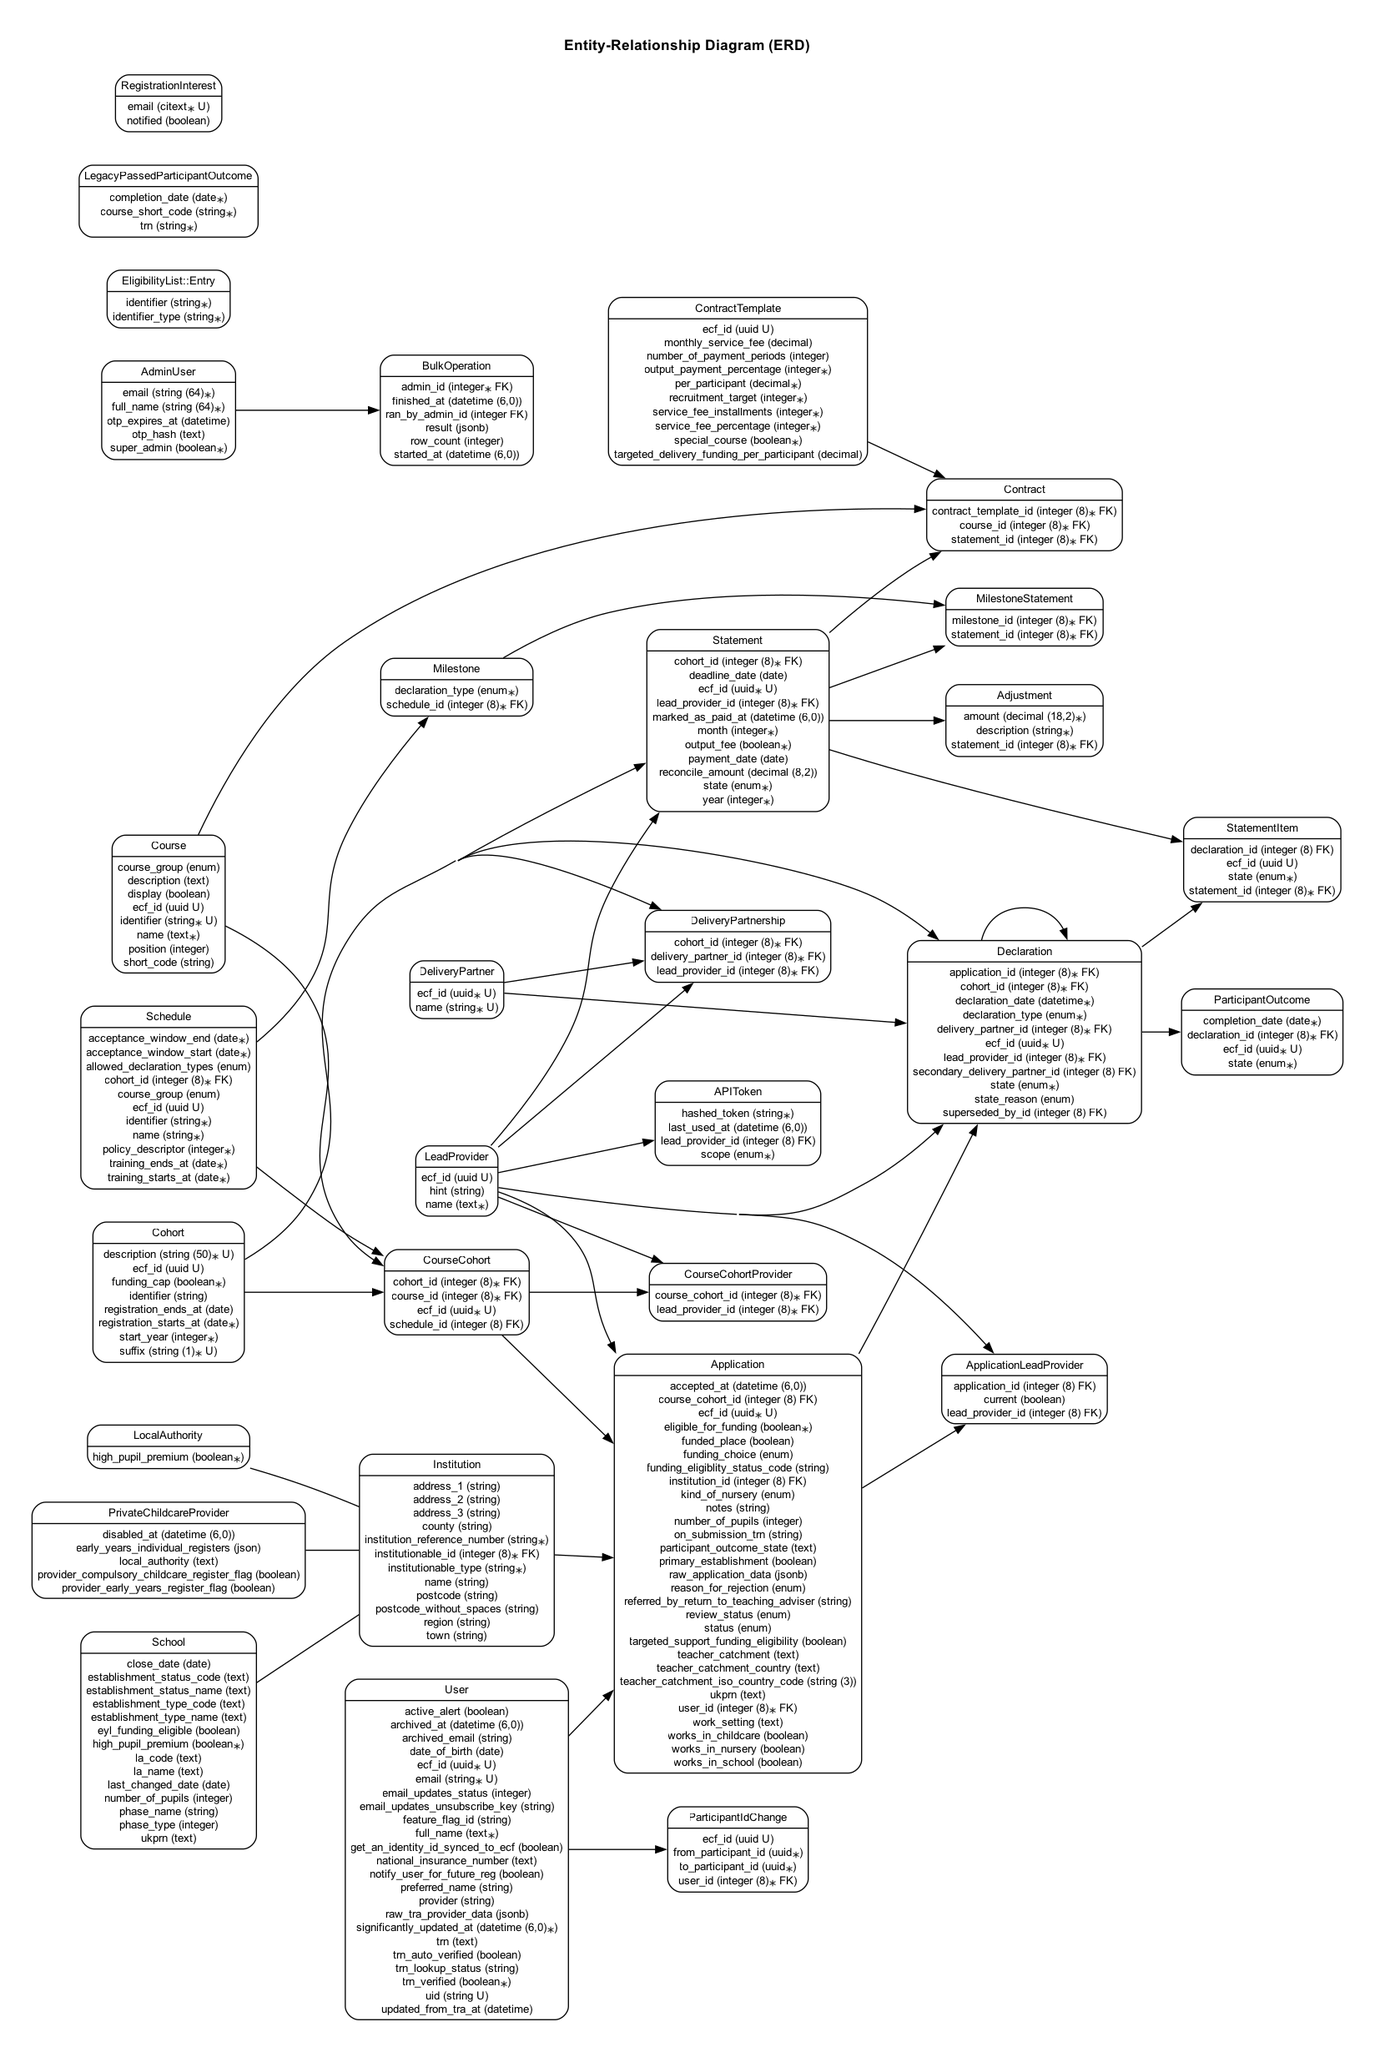
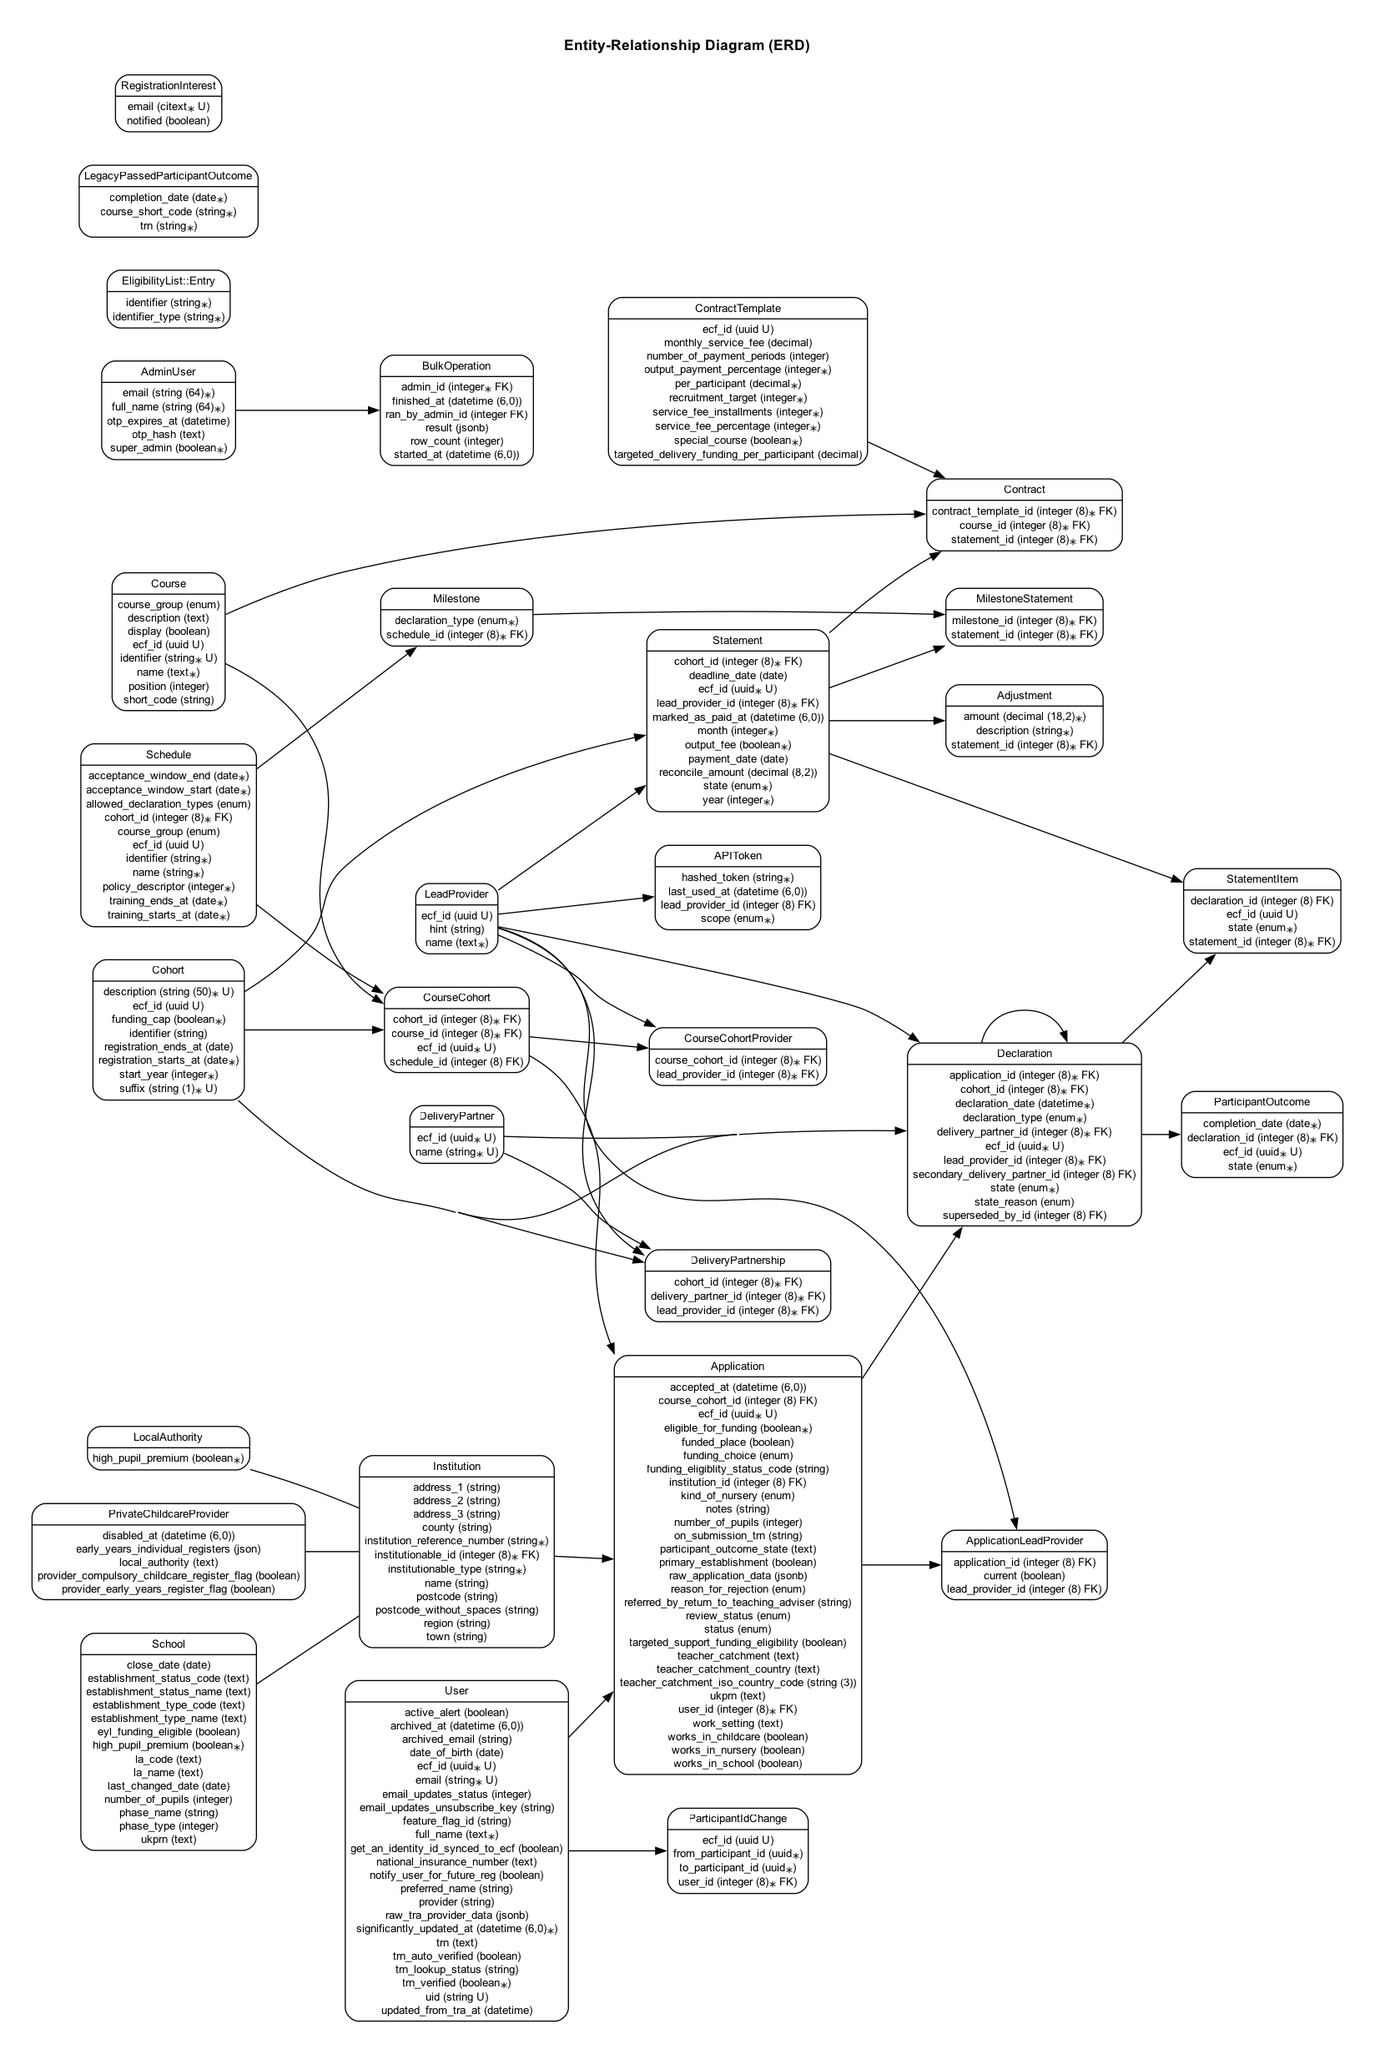
Remove application#belongs_to#lead_provider

diff --git a/spec/services/handle_submission_for_store_spec.rb b/spec/services/handle_submission_for_store_spec.rb
@@ -101,6 +101,7 @@ RSpec.describe HandleSubmissionForStore do
         expect(stable_as_json(user.reload)).to match(expected_user_attributes)
         expect(user.applications.reload.count).to eq 1
         last_application = user.applications.last
+        expect(last_application.lead_provider).to eq(lead_provider)
         expect(stable_as_json(last_application)).to match({
           "course_cohort_id" => course_cohort.id,
           "ecf_id" => last_application.ecf_id,
@@ -111,7 +112,6 @@ RSpec.describe HandleSubmissionForStore do
           "kind_of_nursery" => nil,
           "status" => "pending",
           "participant_outcome_state" => nil,
-          "lead_provider_id" => lead_provider.id,
           "notes" => nil,
           "institution_id" => school.institution.id,
           "targeted_support_funding_eligibility" => false,
@@ -249,7 +249,7 @@ RSpec.describe HandleSubmissionForStore do
 
       it "stores data from store" do
         subject.call
-
+        expect(user.applications.last.lead_provider).to eq(lead_provider)
         expect(stable_as_json(user.applications.last)).to match({
           "course_cohort_id" => course_cohort.id,
           "ecf_id" => user.applications.last.ecf_id,
@@ -260,7 +260,6 @@ RSpec.describe HandleSubmissionForStore do
           "kind_of_nursery" => "private_nursery",
           "status" => "pending",
           "participant_outcome_state" => nil,
-          "lead_provider_id" => lead_provider.id,
           "notes" => nil,
           "institution_id" => nil,
           "targeted_support_funding_eligibility" => false,
@@ -306,6 +305,7 @@ RSpec.describe HandleSubmissionForStore do
       it "stores data from store" do
         subject.call
 
+        expect(user.applications.last.lead_provider).to eq(lead_provider)
         expect(stable_as_json(user.applications.last)).to match({
           "course_cohort_id" => course_cohort.id,
           "ecf_id" => user.applications.last.ecf_id,
@@ -316,7 +316,6 @@ RSpec.describe HandleSubmissionForStore do
           "kind_of_nursery" => "private_nursery",
           "status" => "pending",
           "participant_outcome_state" => nil,
-          "lead_provider_id" => lead_provider.id,
           "notes" => nil,
           "institution_id" => nil,
           "targeted_support_funding_eligibility" => false,
@@ -372,6 +371,7 @@ RSpec.describe HandleSubmissionForStore do
       it "stores data from store" do
         subject.call
 
+        expect(user.applications.last.lead_provider).to eq(lead_provider)
         expect(stable_as_json(user.applications.last)).to match({
           "course_cohort_id" => course_cohort.id,
           "ecf_id" => user.applications.last.ecf_id,
@@ -382,7 +382,6 @@ RSpec.describe HandleSubmissionForStore do
           "kind_of_nursery" => "private_nursery",
           "status" => "pending",
           "participant_outcome_state" => nil,
-          "lead_provider_id" => lead_provider.id,
           "notes" => nil,
           "institution_id" => nil,
           "targeted_support_funding_eligibility" => false,

diff --git a/app/models/application.rb b/app/models/application.rb
@@ -9,7 +9,6 @@ class Application < ApplicationRecord
 
   belongs_to :user
   belongs_to :course_cohort
-  belongs_to :lead_provider
   belongs_to :institution, optional: true
 
   has_one :course, through: :course_cohort
@@ -30,10 +29,14 @@ class Application < ApplicationRecord
   has_many :application_events
   has_many :state_changes
   has_many :notifications
-  has_one :deferred_event, -> { where(event: DEFERRED).order(created_at: :desc) }, class_name: "StateChange"
-  has_one :withdrawn_event, -> { where(event: WITHDRAWN).order(created_at: :desc) }, class_name: "StateChange"
   has_many :declarations
   has_many :application_lead_providers
+
+  has_one :deferred_event, -> { where(event: DEFERRED).order(created_at: :desc) }, class_name: "StateChange"
+  has_one :withdrawn_event, -> { where(event: WITHDRAWN).order(created_at: :desc) }, class_name: "StateChange"
+  has_one :current_application_lead_provider,
+          -> { where(current: true) }, class_name: "ApplicationLeadProvider"
+  has_one :lead_provider, through: :current_application_lead_provider
 
   scope :expired_applications, -> { where(status: [REJECTED, WITHDRAWN]).where("created_at < ?", cut_off_date_for_expired_applications) }
   scope :active_applications, -> { where.not(id: expired_applications) }
@@ -60,7 +63,6 @@ class Application < ApplicationRecord
   validate :eligible_for_funded_place
 
   after_commit :touch_user_if_changed
-  after_save :create_application_lead_provider
 
   API_STATUSES = [].freeze
 
@@ -122,6 +124,19 @@ class Application < ApplicationRecord
   validates :funded_place, inclusion: { in: [true, false] }, if: :validate_funded_place?
   validate :funded_place_nil_for_cohort_with_ineligible_for_funding_cap
   validate :eligible_for_funded_place
+
+  def lead_provider_id
+    lead_provider.id
+  end
+
+  def lead_provider_id=(new_provider_id)
+    application_lead_providers.current.update_all(current: false, updated_at: Time.zone.now)
+    application_lead_providers.create!(lead_provider_id: new_provider_id, current: true)
+  end
+
+  def lead_provider=(new_provider)
+    self.lead_provider_id = new_provider&.id
+  end
 
   def can_change_provider?
     pending_status?
@@ -292,12 +307,5 @@ private
     return unless saved_change_to_status?
 
     user.touch(time: updated_at)
-  end
-
-  def create_application_lead_provider
-    return unless saved_change_to_lead_provider_id && lead_provider_id.present?
-
-    application_lead_providers.current.update_all(current: false, updated_at: Time.zone.now)
-    application_lead_providers.create!(lead_provider_id:, current: true)
   end
 end

diff --git a/spec/views/admin/applications/show.html.erb_spec.rb b/spec/views/admin/applications/show.html.erb_spec.rb
@@ -3,6 +3,14 @@ require "rails_helper"
 RSpec.describe "admin/applications/show.html.erb", type: :view do
   subject { Capybara.string(render) }
 
+  let(:application_trait) { :accepted }
+  let(:application_attributes) { {} }
+  let :application do
+    application = build_stubbed(:application, application_trait, **application_attributes)
+    allow(application).to receive(:lead_provider).and_return(build_stubbed(:lead_provider))
+    application
+  end
+
   let(:declarations) { [] }
 
   before do
@@ -11,10 +19,6 @@ RSpec.describe "admin/applications/show.html.erb", type: :view do
   end
 
   describe "a summary card for a full application" do
-    let(:application) do
-      build_stubbed :application, :accepted
-    end
-
     let :declarations do
       [
         build_stubbed(:declaration, application: application,
@@ -42,9 +46,7 @@ RSpec.describe "admin/applications/show.html.erb", type: :view do
   end
 
   describe "a summary card for a minimal application" do
-    let :application do
-      build_stubbed :application, institution: nil
-    end
+    let(:application_attributes) { { institution: nil } }
 
     it { is_expected.to have_css "h1", text: "Application details" }
     it { is_expected.to have_summary_item "Application ID", application.ecf_id }
@@ -56,10 +58,8 @@ RSpec.describe "admin/applications/show.html.erb", type: :view do
   end
 
   describe "Links for actions" do
-    let(:application) { build_stubbed(:application) }
-
     context "when the application is pending" do
-      let(:application) { build_stubbed(:application, :pending) }
+      let(:application_trait) { :pending }
 
       it do
         expect(subject).not_to have_link("Revert to Pending")
@@ -69,7 +69,7 @@ RSpec.describe "admin/applications/show.html.erb", type: :view do
     end
 
     context "when the application is accepted" do
-      let(:application) { build_stubbed(:application, :accepted) }
+      let(:application_trait) { :accepted }
 
       it do
         expect(subject).to have_link("Revert to Pending")
@@ -79,7 +79,7 @@ RSpec.describe "admin/applications/show.html.erb", type: :view do
     end
 
     context "when the application is withdrawn" do
-      let(:application) { build_stubbed(:application, :withdrawn) }
+      let(:application_trait) { :withdrawn }
 
       it do
         expect(subject).to have_link("Revert to Pending")

diff --git a/db/schema.rb b/db/schema.rb
@@ -10,7 +10,7 @@
 #
 # It's strongly recommended that you check this file into your version control system.
 
-ActiveRecord::Schema[8.1].define(version: 2026_04_16_060402) do
+ActiveRecord::Schema[8.1].define(version: 2026_04_16_111837) do
   # These are extensions that must be enabled in order to support this database
   enable_extension "btree_gin"
   enable_extension "citext"
@@ -129,7 +129,6 @@ ActiveRecord::Schema[8.1].define(version: 2026_04_16_060402) do
     t.string "funding_eligiblity_status_code"
     t.bigint "institution_id"
     t.enum "kind_of_nursery", enum_type: "kind_of_nurseries"
-    t.bigint "lead_provider_id", null: false
     t.string "notes"
     t.integer "number_of_pupils", default: 0
     t.string "on_submission_trn"
@@ -154,7 +153,6 @@ ActiveRecord::Schema[8.1].define(version: 2026_04_16_060402) do
     t.index ["course_cohort_id"], name: "index_applications_on_course_cohort_id"
     t.index ["ecf_id"], name: "index_applications_on_ecf_id", unique: true
     t.index ["institution_id"], name: "index_applications_on_institution_id"
-    t.index ["lead_provider_id"], name: "index_applications_on_lead_provider_id"
     t.index ["status"], name: "index_applications_on_status"
     t.index ["user_id", "course_cohort_id"], name: "index_applications_on_user_id_and_course_cohort_id", unique: true, where: "(status <> ALL (ARRAY['rejected'::application_statuses]))"
     t.index ["user_id"], name: "index_applications_on_user_id"
@@ -633,7 +631,6 @@ ActiveRecord::Schema[8.1].define(version: 2026_04_16_060402) do
   add_foreign_key "application_events", "applications"
   add_foreign_key "application_events", "lead_providers"
   add_foreign_key "applications", "institutions"
-  add_foreign_key "applications", "lead_providers"
   add_foreign_key "applications", "users"
   add_foreign_key "contracts", "contract_templates"
   add_foreign_key "contracts", "courses"

diff --git a/spec/factories/applications.rb b/spec/factories/applications.rb
@@ -3,13 +3,12 @@ require "securerandom"
 FactoryBot.define do
   factory :application do
     with_school
-
     user
-    lead_provider { LeadProvider.first || create(:lead_provider) }
     status { :pending }
     ecf_id { SecureRandom.uuid }
 
     transient do
+      lead_provider { nil }
       course { Course.find_by(identifier: Course::IDENTIFIERS.first) || create(Course::IDENTIFIERS.first.to_sym) }
       cohort do
         existing = user.persisted? &&
@@ -23,13 +22,18 @@ FactoryBot.define do
     end
 
     course_cohort { create(:course_cohort, course:, cohort:, schedule:) }
-
     teacher_catchment { course_cohort.cohort.start_year > 2023 ? "england" : nil }
     teacher_catchment_country { "United Kingdom of Great Britain and Northern Ireland" }
     teacher_catchment_iso_country_code { "GBR" }
     funding_choice { Application.funding_choices.keys.first }
     ukprn { rand(10_000_000..99_999_999).to_s }
     funded_place { course_cohort.cohort.funding_cap ? !!eligible_for_funding : nil }
+
+    after(:create) do |application, evaluator|
+      lead_provider = evaluator.lead_provider || LeadProvider.first || create(:lead_provider)
+      create(:application_lead_provider,
+             application:, lead_provider:, current: true)
+    end
 
     trait :with_school do
       transient do

diff --git a/app/services/declarations/query.rb b/app/services/declarations/query.rb
@@ -34,11 +34,11 @@ module Declarations
     def where_lead_provider_is(lead_provider, include_transferred_applications)
       return if ignore?(filter: lead_provider)
 
-      relation = Declaration.joins(:application)
+      relation = Declaration.joins(application: :application_lead_providers)
       lead_provider_scope = relation.where(lead_provider:)
 
       if include_transferred_applications
-        lead_provider_scope = lead_provider_scope.or(relation.where(application: { lead_provider: }))
+        lead_provider_scope = lead_provider_scope.or(relation.merge(ApplicationLeadProvider.current.where(lead_provider:)))
       end
 
       scope.merge!(lead_provider_scope)
@@ -88,7 +88,7 @@ module Declarations
           :cohort,
           :lead_provider,
           :participant_outcomes,
-          application: [:user, :lead_provider, { course_cohort: [:course] }],
+          application: [:user, { application_lead_providers: [:lead_provider], course_cohort: [:course] }],
           statement_items: %i[
             statement
           ],

diff --git a/app/controllers/admin/applications_controller.rb b/app/controllers/admin/applications_controller.rb
@@ -4,7 +4,7 @@ module Admin
 
     def index
       applications = Application
-                       .includes(:institution, :lead_provider, :user, course_cohort: %i[course cohort])
+                       .includes(:institution, :user, application_lead_providers: %i[lead_provider], course_cohort: %i[course cohort])
                        .merge(filter_scope)
                        .merge(search_scope)
                        .order("applications.created_at ASC")
@@ -13,7 +13,7 @@ module Admin
 
     def show
       @application = Application
-                       .includes(:institution, :user, :lead_provider, course_cohort: %i[course cohort schedule])
+                       .includes(:institution, :user, application_lead_providers: %i[lead_provider], course_cohort: %i[course cohort schedule])
                        .find(params[:id])
     end
 

diff --git a/app/controllers/api/v1/applications_controller.rb b/app/controllers/api/v1/applications_controller.rb
@@ -61,7 +61,7 @@ module API
       #
       def readable_application
         @readable_application ||= begin
-          unless current_lead_provider.readable_applications.exists?(ecf_id:)
+          unless current_lead_provider.applications.exists?(ecf_id:)
             raise ActiveRecord::RecordNotFound
           end
 
@@ -81,7 +81,7 @@ module API
       #
       def updateable_application
         @updateable_application ||= begin
-          unless current_lead_provider.readable_applications.exists?(ecf_id:)
+          unless current_lead_provider.applications.exists?(ecf_id:)
             # Lead provider never was assigned to the application
             raise ActiveRecord::RecordNotFound
           end

diff --git a/app/services/applications/query.rb b/app/services/applications/query.rb
@@ -20,6 +20,7 @@ module Applications
                  .preload(institution: :institutionable)
       @sort = sort
 
+      where_lead_provider_is(lead_provider)
       where_cohort_start_year_in(cohort_start_years)
       where_updated_since(updated_since)
       where_participant_ids_in(participant_ids)
@@ -43,7 +44,7 @@ module Applications
     def where_lead_provider_is(lead_provider)
       return if ignore?(filter: lead_provider)
 
-      scope.merge!(Application.where(lead_provider:))
+      scope.merge!(Application.joins(:application_lead_providers).merge(ApplicationLeadProvider.current.where(lead_provider:)))
     end
 
     def where_cohort_start_year_in(cohort_start_years)

diff --git a/app/models/lead_provider.rb b/app/models/lead_provider.rb
@@ -1,5 +1,4 @@
 class LeadProvider < ApplicationRecord
-  has_many :applications
   has_many :statements
   has_many :course_cohort_providers
   has_many :course_cohorts, through: :course_cohort_providers
@@ -10,7 +9,7 @@ class LeadProvider < ApplicationRecord
   has_many :updateable_applications,
            -> { where(application_lead_providers: { current: true }) },
            through: :application_lead_providers, source: :application
-  has_many :readable_applications,
+  has_many :applications,
            through: :application_lead_providers, source: :application
 
   validates :name, presence: true

diff --git a/app/services/participants/query.rb b/app/services/participants/query.rb
@@ -31,7 +31,7 @@ module Participants
     def where_lead_provider_is(lead_provider)
       return if ignore?(filter: lead_provider)
 
-      scope.merge!(Application.where(lead_provider:))
+      scope.merge!(Application.joins(:application_lead_providers).merge(ApplicationLeadProvider.current.where(lead_provider:)))
     end
 
     def where_updated_since(updated_since)
@@ -75,6 +75,7 @@ module Participants
             cohort
             lead_provider
             application_events
+            application_lead_providers
             schedule
           ],
         )

diff --git a/app/models/bulk_operation/submit_declarations.rb b/app/models/bulk_operation/submit_declarations.rb
@@ -30,8 +30,9 @@ private
 
     course = Course.find_by(identifier: row["course_identifier"])
     application = Application
-                    .joins(:course_cohort)
-                    .where(user: participant, lead_provider:, course_cohorts: { course: })
+                    .joins(:course_cohort, :application_lead_providers)
+                    .where(user: participant, course_cohorts: { course: })
+                    .merge(ApplicationLeadProvider.current.where(lead_provider:))
                     .first
 
     service = Declarations::Create.new(
